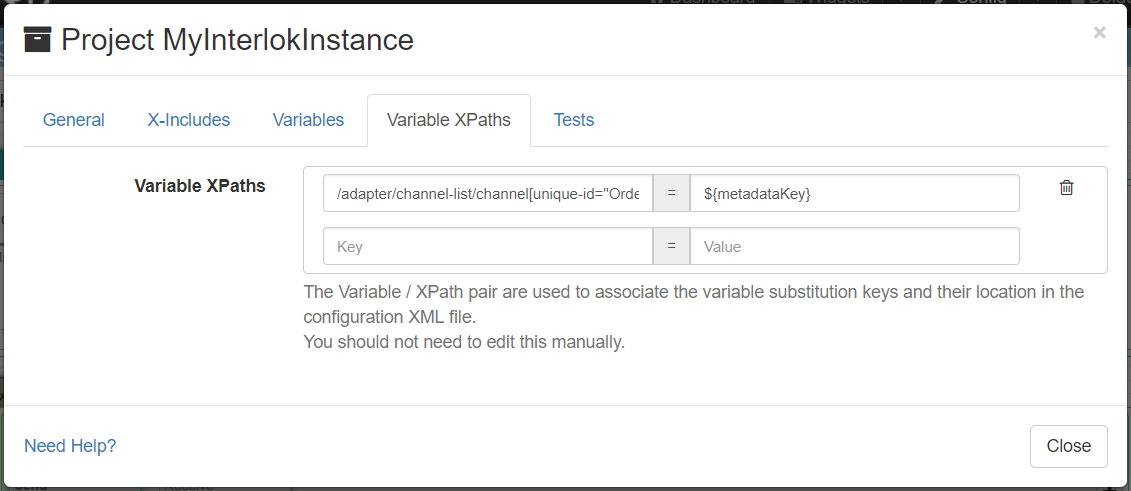
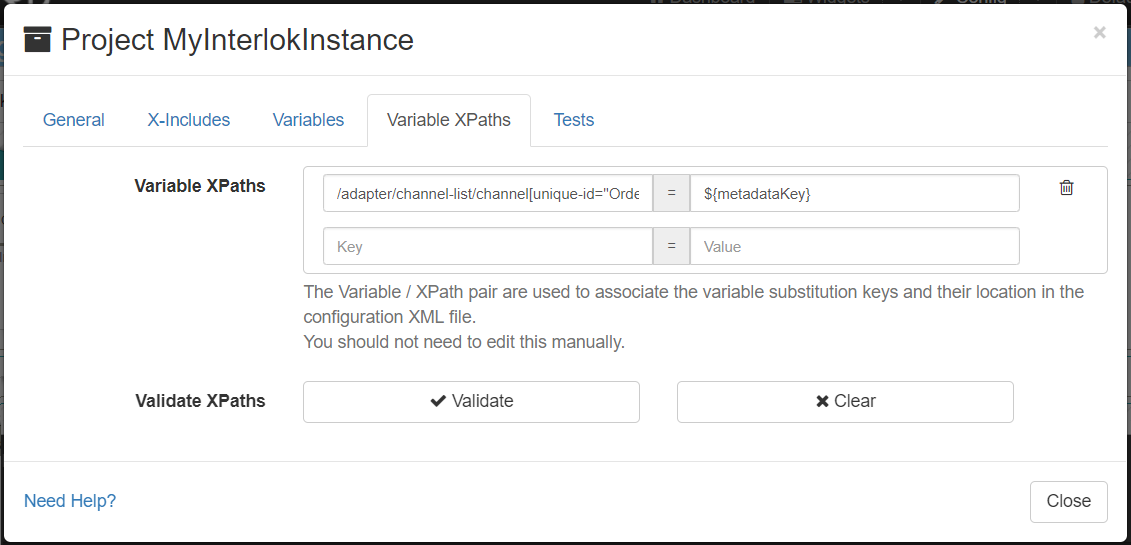
Update the doc for the edit config modal.

diff --git a/pages/ui/ui-config-project.md b/pages/ui/ui-config-project.md
@@ -89,6 +89,9 @@ The Variables XPaths tab list all the associations between the config XML node v
 
 You should not need to edit anything in this tab except if you know which XPath to edit. The association can be done in the [Component settings modal](#component-settings-modal).
 
+If you need to add or edit manually some variables xpaths, since 3.8.3 the UI can help you validating the xpath to make sure they match something in the config page.
+Click on the 'Validate' button to do the validation and on Clear to clear the validation results.
+
 Generic XPaths (e.g. `//payload-hashing-service/metadata-key` instead of `/adapter/channel-list/channel[unique-id="ChannelId"]/workflow-list/standard-workflow[unique-id="WorkflowId"]/service-collection/services/payload-hashing-service[unique-id="HashPayload"]/metadata-key`) are supported for substitution but the variables will not appear as selected in the [Component settings modal](#component-settings-modal).
 
 ### Tests Tab ###
